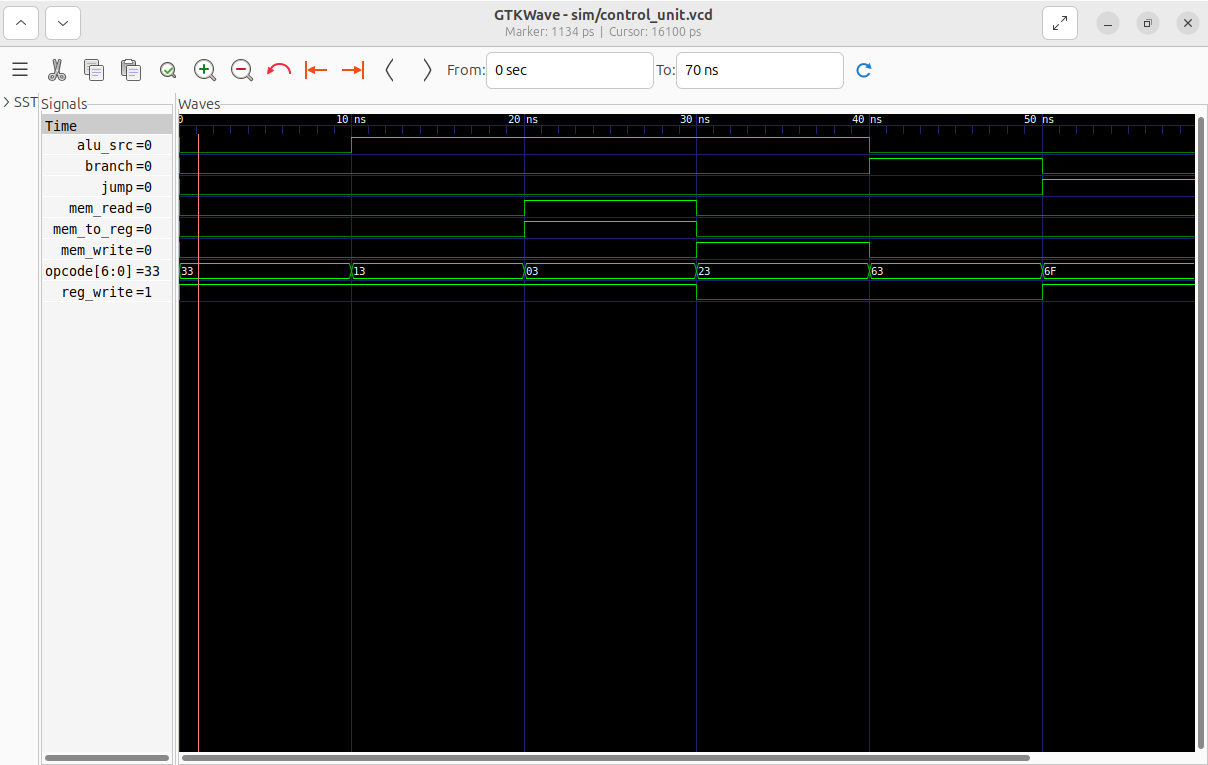
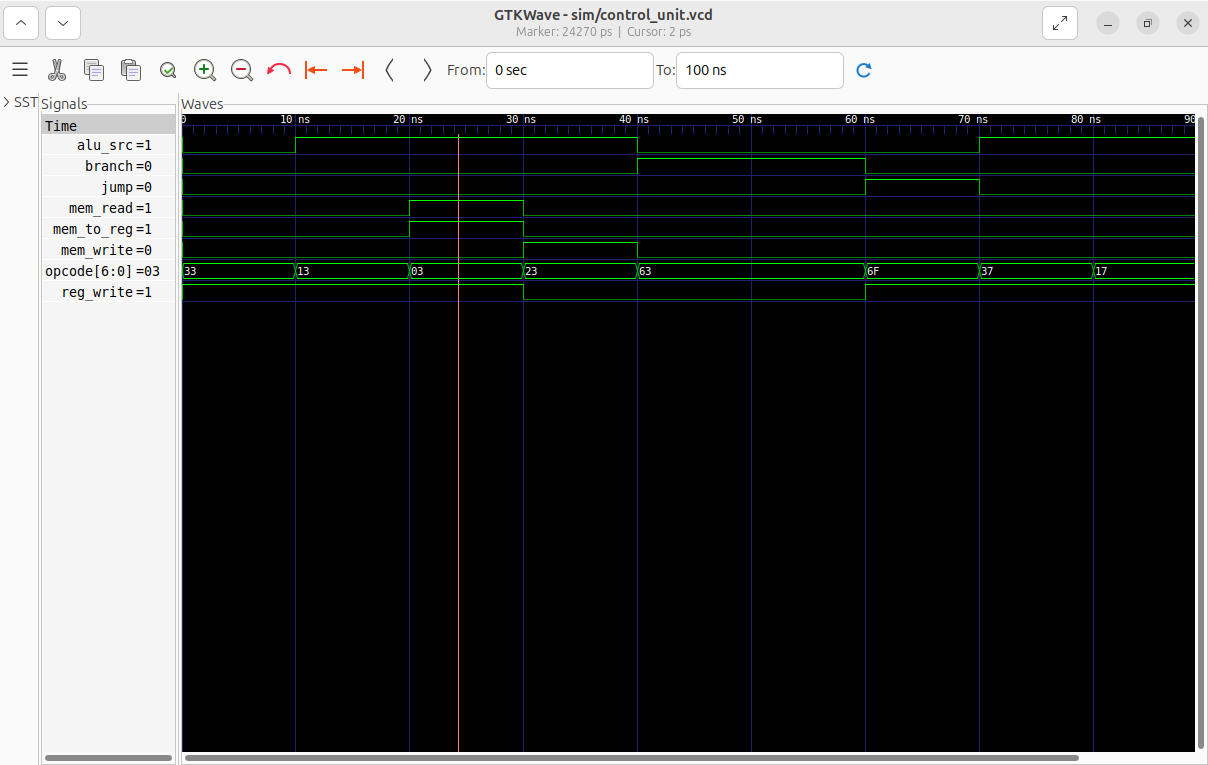
Complete Control_unit

diff --git a/docs/Day12.md b/docs/Day12.md
@@ -1,0 +1,139 @@
+# Day 12 – Control Unit Deep Verification
+
+## Objective
+
+The objective of Day 12 was to perform detailed verification of the Control Unit of the 32-bit RISC-V RV32I processor.
+
+The Control Unit generates the control signals required to control the processor datapath based on the instruction opcode.
+
+---
+
+## Control Unit Signals
+
+The Control Unit generates the following signals:
+
+| Signal | Function |
+|---|---|
+| RegWrite | Enables writing data into the register file |
+| MemRead | Enables reading from data memory |
+| MemWrite | Enables writing to data memory |
+| ALUSrc | Selects ALU second input between register data and immediate |
+| MemToReg | Selects memory data for register write-back |
+| Branch | Indicates a conditional branch instruction |
+| Jump | Indicates a jump instruction |
+
+---
+
+## Supported Instruction Groups
+
+The Control Unit supports the following instruction groups:
+
+- R-Type instructions
+- I-Type ALU instructions
+- Load Word (LW)
+- Store Word (SW)
+- Branch instructions (BEQ/BNE)
+- JAL
+- LUI
+- AUIPC
+
+Unsupported instructions generate safe default control signals.
+
+---
+
+## Opcode Mapping
+
+| Instruction Type | Opcode |
+|---|---|
+| R-Type | `0110011` |
+| I-Type ALU | `0010011` |
+| LW | `0000011` |
+| SW | `0100011` |
+| Branch | `1100011` |
+| JAL | `1101111` |
+| LUI | `0110111` |
+| AUIPC | `0010111` |
+
+---
+
+## Control Signal Verification
+
+The following control configurations were verified:
+
+| Instruction | RegWrite | MemRead | MemWrite | ALUSrc | MemToReg | Branch | Jump |
+|---|---:|---:|---:|---:|---:|---:|---:|
+| R-Type | 1 | 0 | 0 | 0 | 0 | 0 | 0 |
+| I-Type ALU | 1 | 0 | 0 | 1 | 0 | 0 | 0 |
+| LW | 1 | 1 | 0 | 1 | 1 | 0 | 0 |
+| SW | 0 | 0 | 1 | 1 | 0 | 0 | 0 |
+| BEQ | 0 | 0 | 0 | 0 | 0 | 1 | 0 |
+| BNE | 0 | 0 | 0 | 0 | 0 | 1 | 0 |
+| JAL | 1 | 0 | 0 | 0 | 0 | 0 | 1 |
+| LUI | 1 | 0 | 0 | 1 | 0 | 0 | 0 |
+| AUIPC | 1 | 0 | 0 | 1 | 0 | 0 | 0 |
+| Invalid | 0 | 0 | 0 | 0 | 0 | 0 | 0 |
+
+---
+
+## Verification Method
+
+A dedicated testbench was used to verify the Control Unit.
+
+The testbench:
+
+1. Applied different instruction opcodes.
+2. Observed all seven control signals.
+3. Compared the generated control signals against expected values.
+4. Reported `PASS` or `FAIL`.
+5. Generated a VCD waveform for GTKWave analysis.
+
+---
+
+## Simulation Result
+
+The Control Unit was compiled using Icarus Verilog.
+
+All ten verification cases passed successfully.
+
+```text
+===== CONTROL UNIT DEEP VERIFICATION =====
+
+R-Type
+RegWrite=1 MemRead=0 MemWrite=0 ALUSrc=0 MemToReg=0 Branch=0 Jump=0
+PASS
+
+I-Type ALU
+RegWrite=1 MemRead=0 MemWrite=0 ALUSrc=1 MemToReg=0 Branch=0 Jump=0
+PASS
+
+LW
+RegWrite=1 MemRead=1 MemWrite=0 ALUSrc=1 MemToReg=1 Branch=0 Jump=0
+PASS
+
+SW
+RegWrite=0 MemRead=0 MemWrite=1 ALUSrc=1 MemToReg=0 Branch=0 Jump=0
+PASS
+
+BEQ
+RegWrite=0 MemRead=0 MemWrite=0 ALUSrc=0 MemToReg=0 Branch=1 Jump=0
+PASS
+
+BNE
+RegWrite=0 MemRead=0 MemWrite=0 ALUSrc=0 MemToReg=0 Branch=1 Jump=0
+PASS
+
+JAL
+RegWrite=1 MemRead=0 MemWrite=0 ALUSrc=0 MemToReg=0 Branch=0 Jump=1
+PASS
+
+LUI
+RegWrite=1 MemRead=0 MemWrite=0 ALUSrc=1 MemToReg=0 Branch=0 Jump=0
+PASS
+
+AUIPC
+RegWrite=1 MemRead=0 MemWrite=0 ALUSrc=1 MemToReg=0 Branch=0 Jump=0
+PASS
+
+INVALID
+RegWrite=0 MemRead=0 MemWrite=0 ALUSrc=0 MemToReg=0 Branch=0 Jump=0
+PASS
